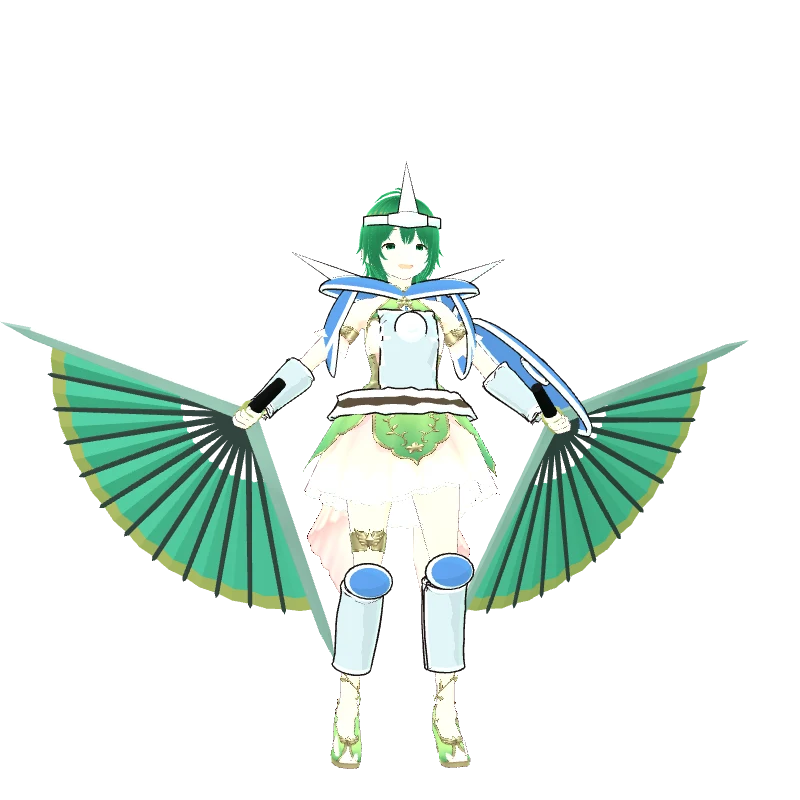
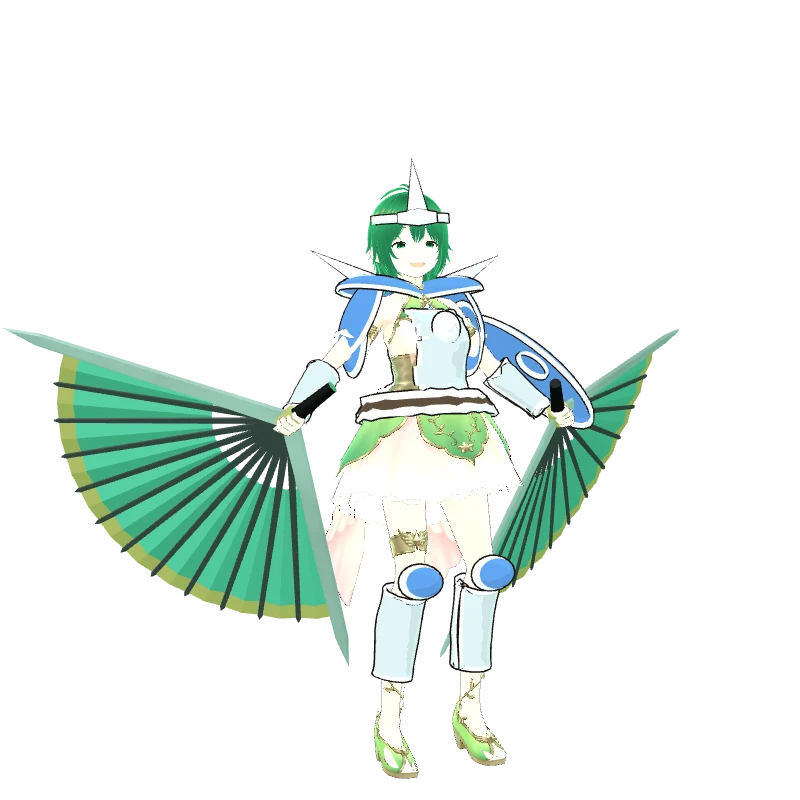
フウカの決めポーズ: 体を斜めに向け、足をそろえて片足に重心を寄せ、顔は正面へ (v1.17.11)

Changed region(s): [[0.0, 0.2188, 0.9062, 1.0], [0.9062, 0.4062, 0.9375, 0.4375]]

diff --git a/src/poses.js b/src/poses.js
@@ -9,7 +9,7 @@ export const HERO_POSES = {
   setsuna: { cand: 0, cam: { yaw: -30, pitch: -10 } },
   raika: { p: { az: 15, el: -15, bend: 85, wr: 80, azL: 25, elL: 105, bendL: 70, wrL: 135, tw: 20, lean: 20, crouch: 0.4, stance: 1.0, head: -20 }, cam: { yaw: -65, pitch: -8 } },
   gandou: { p: { az: -150, el: 40, bend: 150, wr: 40, tw: -15, lean: 10, crouch: 0.5, stance: 0, wide: 0.45, head: 0 }, cam: { yaw: -20, pitch: -10 } },
-  fuuka: { p: { az: -85, el: -45, bend: 25, wr: -60, roll: 90, azL: 85, elL: -45, bendL: 25, wrL: -60, rollL: 90, tw: 0, lean: 0, crouch: 0.05, stance: 0.2, side: 0, head: 0, face: { relaxed: 0.7, happy: 0.25, aa: 0.3 } }, cam: { yaw: -10, pitch: -6 } },
+  fuuka: { p: { az: -85, el: -45, bend: 25, wr: -60, roll: 90, azL: 85, elL: -45, bendL: 25, wrL: -60, rollL: 90, tw: 0, lean: 0, crouch: 0.1, stance: 0.05, step: 1, spin: 20, side: 4, head: -18, face: { relaxed: 0.7, happy: 0.25, aa: 0.3 } }, cam: { yaw: -10, pitch: -6 } },
   yomi: { cand: 1, cam: { yaw: 15, pitch: -10 } },
   zenova: { cand: 1, cam: { yaw: 15, pitch: -14 } },
 };

diff --git a/sw.js b/sw.js
@@ -1,6 +1,6 @@
 // サービスワーカー: 全ファイルをキャッシュしてオフラインでも遊べるようにする
 // ※ ゲームを更新したら CACHE の番号を上げてください(古いキャッシュが破棄されます)
-const CACHE = 'seiga-v1.17.10';
+const CACHE = 'seiga-v1.17.11';
 const FILES = [
   './', 'index.html', 'manifest.webmanifest', 'css/style.css', 'vendor/three.module.min.js',
   'icons/icon-192.png', 'icons/icon-512.png', 'icons/icon-maskable-512.png', 'icons/apple-touch-icon.png',

diff --git a/src/config.js b/src/config.js
@@ -4,7 +4,7 @@
 // 空のままでも、ゲーム内「設定」画面から個別にURLを入力できます。
 export const CLOUD_URL = 'https://script.google.com/macros/s/AKfycbwIXAdAaQbAvjuTPs3f40_3I8KxJB3mKbrFkAzfM-IuFDj_kmxqeDuisBGuqbjSZOJp1Q/exec';
 
-export const VERSION = '1.17.10';
+export const VERSION = '1.17.11';
 
 // VRoid のキャラ(VRM)。ファイルを vrm/ フォルダに入れ、武将ID: パス を書くと差し替わります
 // 武将ID: reiga / setsuna / raika / gandou / fuuka / yomi
